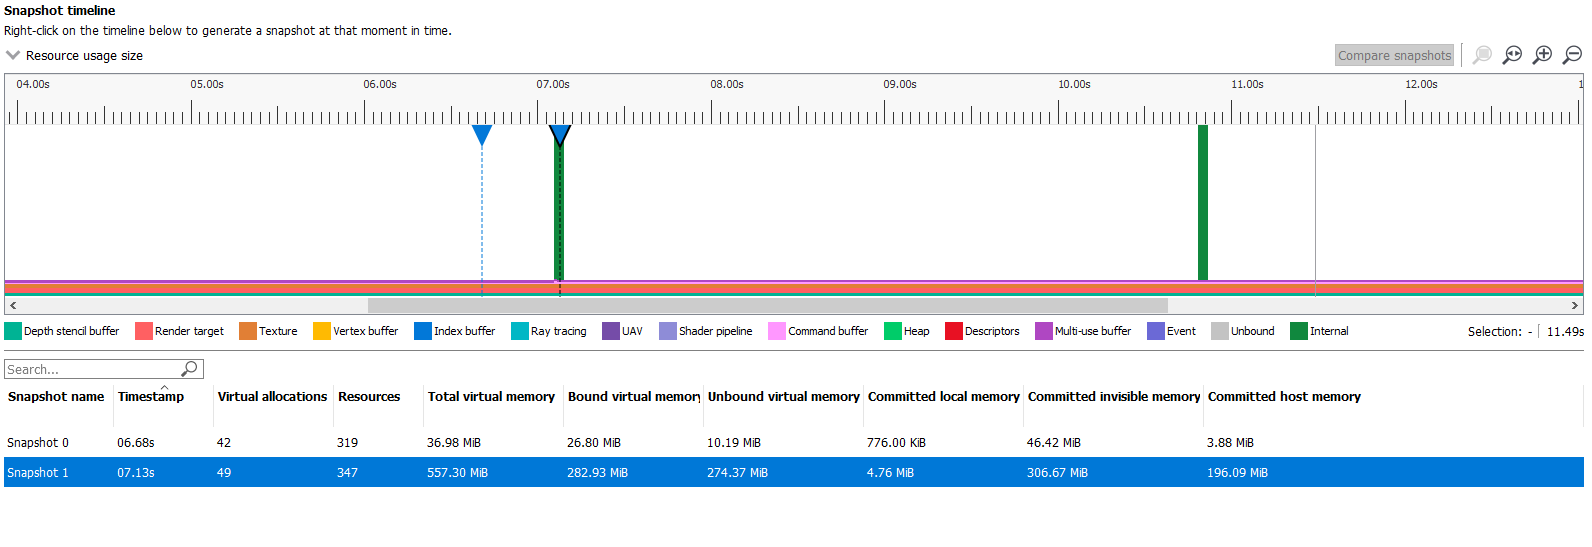
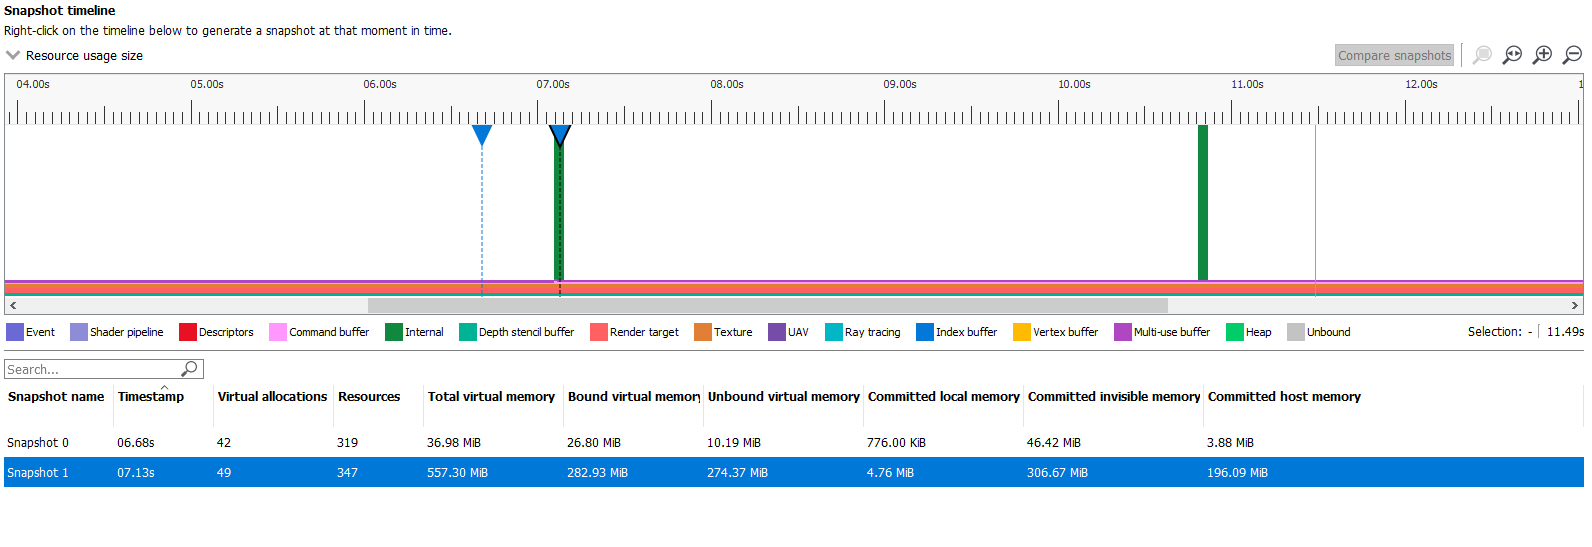
Update documentation for RMV v1.8 release

Changed region(s): [[0.0, 0.5905, 0.8618, 0.6216]]

diff --git a/documentation/source/conf.py b/documentation/source/conf.py
@@ -54,9 +54,9 @@ author = u'AMD Developer Tools'
 # built documents.
 #
 # The short X.Y version.
-version = u'1.7.0'
+version = u'1.8.0'
 # The full version, including alpha/beta/rc tags.
-release = u'1.7.0'
+release = u'1.8.0'
 
 # The language for content autogenerated by Sphinx. Refer to documentation
 # for a list of supported languages.

diff --git a/documentation/source/timeline.rst b/documentation/source/timeline.rst
@@ -16,8 +16,8 @@ compare snapshots to check to see if memory is being release or whether there
 are memory leaks.
 
 Snapshots will be displayed in a table below the timeline graph. If there are
-no snapshots in the trace, the area under the timeline graph will indicate that
-there is nothing to show and offer some guidance of what may be required, as
+no snapshots contained in the trace, the area under the timeline graph will indicate
+that there is nothing to show and offer some guidance of what may be required, as
 shown above. There are other instances in the tool showing similar displays,
 such as a resource table being empty if the selected allocation contains no
 resources, or if a resource type has no additional properties to show.
@@ -27,15 +27,55 @@ graph and in the table below the graph.
 
 .. image:: media/timeline_1.png
 
-By default, the graph will be colored by resource type. A color legend below
-the timeline will indicate what resource these colors represent. The coloring
-mode can be changed by selecting from the combo box above the top-left of the
-timeline.
+Timeline graph
+--------------
+The **Timeline graph** displays a visual representation of memory related events
+contained in the trace that occurred over a period of time along the horizontal axis.
+There are four viewing modes:
+
+1. Committed (the default view)
+
+2. Resource usage count
+
+3. Virtual memory heap
+
+4. Resource usage size
+
+The viewing mode can be changed by selecting from the combo box above the top-left
+of the timeline. Note that with previous releases of RMV, the default Timeline view was
+"Resource usage size." The default mode is now "Committed."
+
+A color legend below the timeline will indicate what resources are represented by the
+colors in the timeline.
 
 When the mouse is over the timeline, the tooltip help will show information
 about the memory allocated at the time corresponding to the mouse position. The
 time can be seen from the ruler above the graph. The most abundant resources
 are listed and the rest are combined in the last entry as "Other".
+
+Starting with release 1.8, RMV takes overlapping resources (i.e., aliased
+resources) into account when calculating usage type sizes on the timeline. When
+RMV detects multiple resources that are bound to sections of virtual memory that
+overlap, the usage size is attributed to the resource with the highest importance.
+This is reflected in the height of bars on the "Resource usage size" timeline and
+also, the values displayed on the tooltip when the mouse hovers over a point on
+the timeline graph. The priority of resource importance's matches the order of
+resource types displayed on the legend below the "Resource usage size" timeline
+graph. Resource types towards the left side of the legend have higher priority
+and those towards the right have lower priority. In past releases of RMV, the
+legend order was reversed. The order of the stacked usage types on the timeline
+graph in prior releases was also reversed.
+
+Calculating usage sizes in this way gives a more accurate assessment of memory utilization
+and prevents memory from being counted multiple times. For a deeper explanation
+of how memory size is calculated for aliased resources, please see the **Resource overview**
+section in this document.
+
+The additional usage size calculations required to take aliased resources into
+account requires considerably more time to process. For this reason, a Cancel
+button has been added below the loading animation while the "Resource usage size"
+timeline is being generated. At any time during this processing, the user may
+click the Cancel button to revert to the previously displayed timeline mode.
 
 **Zoom controls**
 
